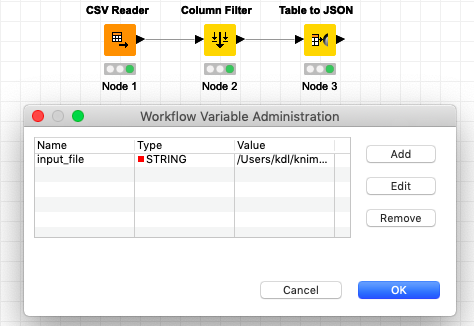
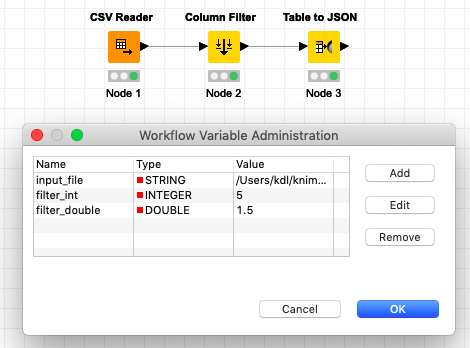
added int/double global variables

diff --git a/docs/source/kdlgrammar.rst b/docs/source/kdlgrammar.rst
@@ -80,7 +80,7 @@ Flow Variables
 ------------------
 Flow variables are used in KNIME to parametrize workflows when node settings
 need to be determined dynamically.  KDL supports usage and creation of both Global
-Flow Variables as well as Flow Variables exposed from a node settings attribute.
+Flow variables as well as variables exposed from a node settings attribute.
 
 Global Variables
 ++++++++++++++++
@@ -93,12 +93,17 @@ is simple a JSON list representation of the global flow variables::
        "variables": [
            {
                "input_file": "/Users/kdl/knime-workspace/Data/Demographics.csv"
+           },
+           {
+               "filter_int": 5
+           },
+           {
+               "filter_double": 1.5
            }
        ],
        "connections": {
-           (n1:1)-->(n3:1),
-           (n3:1)-->(n2:1),
-           (n3)~~>(n2)
+           (n1:1)-->(n2:1),
+           (n2:1)-->(n3:1)
        }
    }
 
